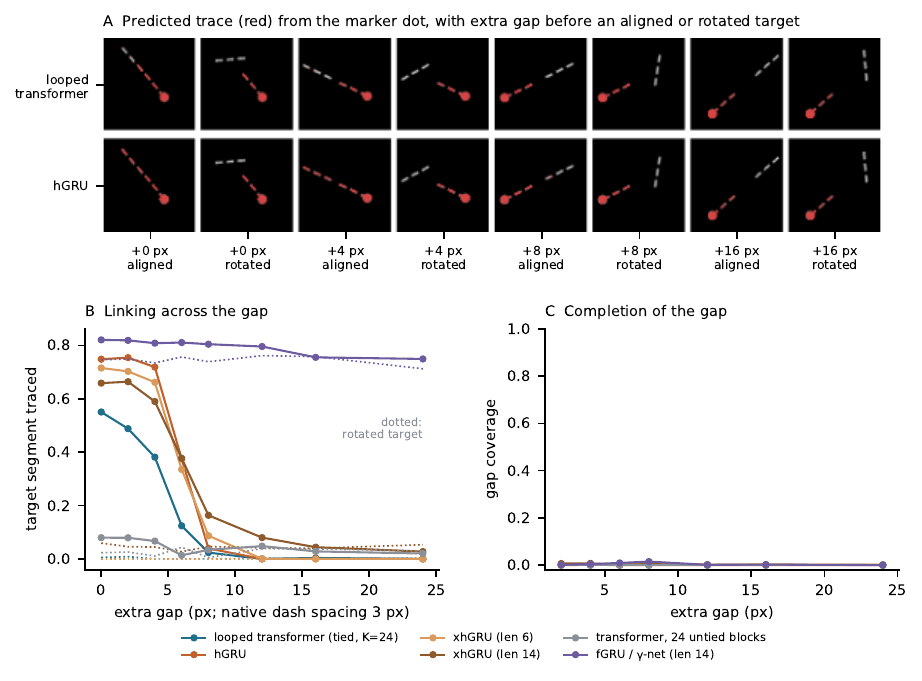
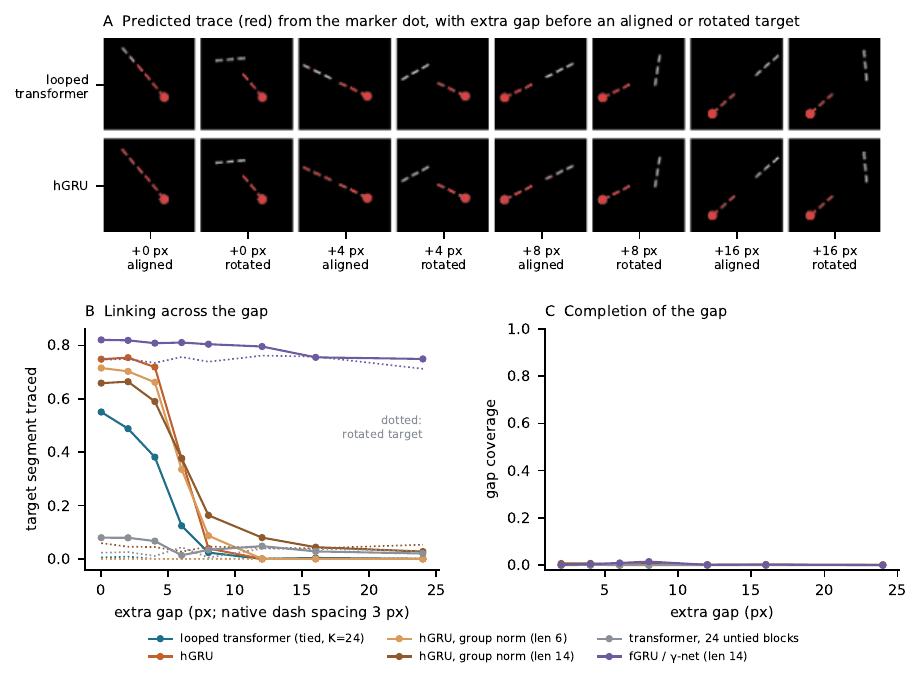
Cued section: drop the inlined comment line; tracing networks: hGRU with group normalization in place of the companion project's xhGRU tag

diff --git a/index.html b/index.html
@@ -71,13 +71,13 @@ footer{font-size:13px;color:var(--muted);margin-top:60px;border-top:1px solid va
 <section id="arrangement"><h2>Fragment arrangement</h2><p>With corners removed, fine-tuned ViT-B and DINOv2 (plain and looped) classify fragmented outlines at 0.84–0.96 in the orientation-control battery, a separate test set with fragments in place, scrambled and in cue conflict, at gaps of <i>0.5</i>–<i>2P</i>. Their closure index across all gap sizes in the main battery is +0.60 to +0.80. Frozen backbones reach half to 70% of that, and fine-tuning raises the index 1.4–2<i>×</i> within each family. Scrambling positions while preserving orientations drops the fine-tuned transformers to 0.27–0.39, so arrangement adds +0.46 to +0.65 beyond orientation statistics.</p></section>
 <section id="where"><h2>Across layers</h2><p>We apply the linear probe at every layer and find that fragment closure in fine-tuned transformers rises through the middle blocks and peaks late (ViT-B +0.68, DINOv2-S +0.79). In looped ViT, it reaches +0.73 by the fourth pass through the shared core and gains at most about 0.02 with further iterations. Additional loops therefore add depth without adding closure. Frozen ViT-B peaks at +0.60, and fine-tuned ResNet50 peaks at +0.52 in its last stage.</p><figure class="narrow"><img src="fig/fig_layers.png" alt="" loading="lazy"><figcaption>Fragment closure index from a linear probe trained on complete outlines at every layer, against relative depth. For the looped ViT, depth counts executed blocks (loops unrolled).</figcaption></figure><figure><img src="fig/example_labels_dinov2.png" alt="" loading="lazy"><img src="fig/example_shap_dinov2.png" alt="" loading="lazy"><figcaption>Fine-tuned DINOv2-S. Top: class-specific relevance maps (Chefer et al., 2021) for the top-1 class per condition (columns) and true class (rows); cell titles give the prediction and its probability. Bottom: Shapley values (Shapley, 1953) of the stimulus's pieces for the true label (red supports, blue opposes). Illustrative only: these maps are weakly faithful (the section “Saliency overlays are often not faithful”); the behavioural evidence for integration is in Fig.&nbsp;3.</figcaption></figure><figure class="anim"><div class="vrow"><div class="vcell"><video autoplay loop muted playsinline preload="metadata" poster="fig/anim/layers_full_vit_b16_sheet.png"><source src="fig/anim/layers_full_vit_b16.mp4" type="video/mp4"></video><div class="vname">ViT-B/16, fine-tuned</div></div><div class="vcell"><video autoplay loop muted playsinline preload="metadata" poster="fig/anim/layers_full_dinov2_s14_sheet.png"><source src="fig/anim/layers_full_dinov2_s14.mp4" type="video/mp4"></video><div class="vname">DINOv2-S, fine-tuned</div></div><div class="vcell"><video autoplay loop muted playsinline preload="metadata" poster="fig/anim/layers_full_resnet50_sheet.png"><source src="fig/anim/layers_full_resnet50.mp4" type="video/mp4"></video><div class="vname">ResNet50, fine-tuned</div></div><div class="vcell"><video autoplay loop muted playsinline preload="metadata" poster="fig/anim/layers_probe_vgg16_sheet.png"><source src="fig/anim/layers_probe_vgg16.mp4" type="video/mp4"></video><div class="vname">VGG16, frozen</div></div></div><figcaption>The contour probe (a logistic regression per layer that labels a cell as holding contour, fitted on complete outlines) played layer by layer, in orange over the stimulus: a Kanizsa square (inducer radius 1.5 patches), its rotated control, the complete outline, the square with corners removed and the same pieces rotated. The probe follows drawn contour from the first block and fills one-patch gaps in the middle blocks; the illusory edges stay empty at every layer.</figcaption></figure></section>
 <section id="recurrence"><h2>Recurrence</h2><p>Looping a fine-tuned transformer changes the fragment closure index by -0.01 to +0.01. Recurrence does not consistently improve this index: in 5 of 6 circuits, the single-iteration control is within 0.02 of, or above, its eight-iteration counterpart (for example, fGRU-H, +0.13 versus +0.18), and the one gain, +0.08 in deep fGRU D4, comes from a single seed. Gap similarity increases over iterations in fGRU-H and fGRU circuits, from 0.28 to 0.35 in fGRU-H, 0.17 to 0.42 in <i>γ</i>-net and 0.35 to 0.37 in eight-layer deep fGRU-H. These increases do not consistently accompany a higher closure index. Across recurrent circuits, the Kanizsa index reaches at most +0.06 (single-iteration controls +0.04), so recurrence adds no illusory-contour signal either.</p><figure><img src="fig/fig_recurrence.png" alt="" loading="lazy"><figcaption>(A) Fragment closure index for the six recurrent circuits that have single-iteration controls (T = 8) and those controls (T = 1). (B) Gap similarity in the gap region of the recurrent state (first recurrent layer, one-patch corner-removed fragments) across the training iterations; for the looped ViT-B/16, across passes through the core.</figcaption></figure><figure class="anim"><div class="vrow"><div class="vcell"><video autoplay loop muted playsinline preload="metadata" poster="fig/anim/layers_looped_vit_b16_sheet.png"><source src="fig/anim/layers_looped_vit_b16.mp4" type="video/mp4"></video><div class="vname">looped ViT-B/16, 24 executed blocks</div></div><div class="vcell"><video autoplay loop muted playsinline preload="metadata" poster="fig/anim/layers_hgru_sheet.png"><source src="fig/anim/layers_hgru.mp4" type="video/mp4"></video><div class="vname">fGRU-H, 8 iterations</div></div><div class="vcell"><video autoplay loop muted playsinline preload="metadata" poster="fig/anim/layers_gammanet_sheet.png"><source src="fig/anim/layers_gammanet.mp4" type="video/mp4"></video><div class="vname">γ-net, 8 iterations</div></div><div class="vcell"><video autoplay loop muted playsinline preload="metadata" poster="fig/anim/layers_dn_fgru_L8_sheet.png"><source src="fig/anim/layers_dn_fgru_L8.mp4" type="video/mp4"></video><div class="vname">DN fGRU L8, 8 iterations</div></div></div><figcaption>The same contour probe over the looped transformer's executed blocks and over the recurrent circuits' iterations (the state the classifier reads). Passes through the core repeat the same map; in the circuits the map is set in the first iteration and sharpens on the drawn contour. The gap between the inducers stays empty.</figcaption></figure></section>
-<section id="tracing"><h2>Contour tracing</h2><p>Our recurrent circuits learned from complete outlines, a task that never demands long-range integration, so we also probed networks trained to segment the dashed contour carrying a marker, a Pathfinder-style curve-tracing task (Jolicoeur et al., 1986; Roelfsema et al., 1998). These networks include an hGRU, two xhGRUs trained on contours of 6 and 14 dashes, an fGRU/<i>γ</i>-net and weight-tied looped local-attention transformers. The companion project calls its models xhGRUs when it replaces the hGRU's per-iteration batch normalization with group normalization (Wu & He, 2018) shared across iterations. We took these networks from that project without retraining; their validation intersection-over-union (IoU) is 0.92–0.996 on 128 px images, and 0.80 for the untied control below. The training target is the full dashed contour, so a network that completes gaps has no reason to label them.</p><figure><img src="fig/fig_tracing.png" alt="" loading="lazy"><figcaption>Contour-tracing networks (trained to segment the dashed contour a marker sits on) probed with a marked dashed segment, an extra gap, and a target segment that continues the path or is rotated in place. (A) Predicted traces. (B) Share of the target traced; solid, aligned; dotted, rotated. (C) Share of the missing contour in the gap predicted as contour.</figcaption></figure></section>
+<section id="tracing"><h2>Contour tracing</h2><p>Our recurrent circuits learned from complete outlines, a task that never demands long-range integration, so we also probed networks trained to segment the dashed contour carrying a marker, a Pathfinder-style curve-tracing task (Jolicoeur et al., 1986; Roelfsema et al., 1998). These networks include an hGRU, two hGRUs with group normalization in place of batch normalization, trained on contours of 6 and 14 dashes, an fGRU/<i>γ</i>-net and weight-tied looped local-attention transformers. We took these networks from that project without retraining; their validation intersection-over-union (IoU) is 0.92–0.996 on 128 px images, and 0.80 for the untied control below. The training target is the full dashed contour, so a network that completes gaps has no reason to label them.</p><figure><img src="fig/fig_tracing.png" alt="" loading="lazy"><figcaption>Contour-tracing networks (trained to segment the dashed contour a marker sits on) probed with a marked dashed segment, an extra gap, and a target segment that continues the path or is rotated in place. (A) Predicted traces. (B) Share of the target traced; solid, aligned; dotted, rotated. (C) Share of the missing contour in the gap predicted as contour.</figcaption></figure></section>
 <section id="gap"><h2>Gap size</h2><p>Accuracy separates the network families when plotted against the number of empty patches (containing no contour pixels, the pixels of the drawn contour) a gap crosses; we did not test whether this count predicts accuracy better than gap size. For 3–6-sided polygons, we average over gaps crossing three or more empty patches, weighting bins of 3, 4, 5 and 6 or more empty patches equally. Fine-tuned transformers score 0.78–0.99, while CNNs and the representative fGRU-H/fGRU circuits score 0.10–0.39.</p><figure class="narrow"><img src="fig/fig_tokens.png" alt="" loading="lazy"><figcaption>Accuracy on fragments (<i>n=3</i>–6, all gap sizes valid) against the largest number of empty patches crossed by any gap. Lines: group means; bands: range across networks.</figcaption></figure><p>We define the critical gap <i>g<sup>*</sup></i> as the gap where the mid-gap closure index falls to half its value at the smallest gap, using linear interpolation in log gap; no network meets the exclusion threshold of an index below 0.05 at the smallest gap. We compute the index on a fixed set of 3- to 6-sided polygons, for which every gap size is valid, and compare <i>g<sup>*</sup></i> with measured ERF<i><sub>50</sub></i> for CNNs and recurrent circuits and with patch size for transformers. Excluding single-iteration controls, CNN and recurrent networks have <i>g<sup>*</sup></i> values of 6 to 50 px, with smaller residual effects possible beyond this point; in 9 of 10 networks, the full critical gap is smaller than ERF<i><sub>50</sub></i>, a radius (median ratio 0.44; 14 of 16 including single-iteration controls). The rank correlation with ERF<i><sub>50</sub></i> is only +0.33, and the exception, excluding single-iteration controls, is fGRU-H with a <i>1×1</i> readout, which adds no spatial convolution after recurrence and has the largest fragment closure index of any recurrent circuit (+0.63). We measure ERF<i><sub>50</sub></i> on noise images and, for deep hierarchies, at the first recurrent layer, so the comparison is descriptive: the gap fits within the region that influences a unit, but this does not show that the network uses that region for the task.</p><figure><img src="fig/gap_schematic.png" alt="" loading="lazy"><figcaption>The same mid-gap fragment at four gap sizes, zoomed on one gap. Top: the 16 px patch grid a ViT-B/16 tokenizes; tinted patches are crossed by the missing contour and contain no contour pixels. Bottom: the measured 50% effective receptive field (ERF<i><sub>50</sub></i>) of four networks, centred on the gap (red: missing contour). Even the 64 px gap lies inside the ERF<i><sub>50</sub></i> of two of the four networks shown.</figcaption></figure><figure><img src="fig/gap_curves.png" alt="" loading="lazy"><img class="narrow" src="fig/gap_vs_reach.png" alt="" loading="lazy"><figcaption>Top: mid-gap closure index (3- to 6-sided polygons) against gap size, by family, for a representative subset of networks (all networks in Table&nbsp;3); dotted verticals mark each network's ERF<i><sub>50</sub></i> (patch size for transformers). Bottom: critical gap <i>g<sup>*</sup></i> (closure index halved) against ERF<i><sub>50</sub></i> or patch size for the same networks; dashed line, equality; triangles, index never halved within the tested range. Over all networks (Table&nbsp;3), 9 of 10 CNN and recurrent networks lie below the diagonal excluding single-iteration controls (the exception is the fGRU-H with a <i>1×1</i> readout) and 14 of 16 including them.</figcaption></figure></section>
 <section id="inside"><h2>Inside the gap</h2><p>A network that completes a contour should represent something where the piece is missing. We tested this with mid-gap fragments of 3- to 6-sided polygons, their rotated controls and matching complete outlines, using up to 48 image triplets per gap size. We sampled spatial features after each transformer block before final normalization, at the four ResNet50 stages and, for recurrent circuits, from the layer the classifier reads at every iteration. We selected cells that the missing contour passes through and that contain no contour pixels in either the stimulus or the control.</p><figure><img src="fig/fig_gapdyn.png" alt="" loading="lazy"><figcaption>Inside the gap. Net gap similarity: how much more the empty feature-map cells on the missing contour resemble the same cells in the complete outline for the stimulus than for its rotated control (cosine similarity of the concatenated cell features), minus the same difference on background cells at least 32 px from any contour pixel. (A) Peak over layers (iterations for recurrent circuits) against gap size. (B) Across relative depth (transformers, solid) or iterations (recurrent circuits, dashed) at a 2-patch gap. (C) Attention from contour tokens to the empty gap tokens relative to empty tokens at the same distance from the drawn contour, blocks 4–8; solid, stimulus; dotted, rotated control. (D) As A, for the illusory edges of Kanizsa figures against rotated inducers.</figcaption></figure><p>By boundary completion (Grossberg & Mingolla, 1985), we mean a process that extends a contour from its ends into an empty gap over successive layers or iterations until the ends meet. Near the drawn contour, overlapping receptive fields and attention to neighbouring tokens make empty gap cells resemble the drawn contour. Farther away, that resemblance declines, though it remains above zero at four patches in transformers. We find no evidence that a process carries one contour end across the empty region to meet the other.</p></section>
 <section id="probe"><h2>Between the inducers</h2><p>The published studies probe representations; the most direct probe is the activity in the empty cells where an illusory edge would be. A real line at 6% contrast raises the contour units by a median +0.44; aligned inducers raise them by +0.02 over rotated ones (at most +0.07; Fig.&nbsp;21B). The illusory edge is therefore worth at most 1.7% of a real line's contrast to the contour probe and at most 3.1% to the contour units (Fig.&nbsp;21C). Sides left empty stay empty however many of the others are drawn (aligned minus rotated, +0.02; Fig.&nbsp;21D), and along a side that fades out the response ends where the contour pixels end: in the empty half it is 0.18 with aligned and 0.18 with rotated inducers (Fig.&nbsp;21E).</p><figure><img src="fig/fig_probe.png" alt="" loading="lazy"><figcaption>The illusory edge against physically drawn versions of the same shape. (A) Displays: the Kanizsa square and its rotated control, a real line of increasing contrast between the same inducers, some sides drawn and the others left empty, a side fading to nothing by its middle, dashes. (B) Contour units (the 5% most contour-selective units of a layer, scaled so that an empty cell is 0 and a drawn contour 1) in the empty cells on the illusory edges, against the contrast of a real line drawn there; contrast 0 is the plain Kanizsa figure (solid) or its rotated control (dotted). Bold: median of each family; networks whose read-out does not rise with line contrast are omitted. (C) Equivalent contrast of the illusory edge per network: bars, contour probe; dots, contour units. (D) Contour units on the sides left empty, against how many sides are missing (the others drawn). (E) Contour units along a side drawn at full contrast at one end and fading to nothing by its middle; grey, no contour pixels.</figcaption></figure></section>
 <section id="mae"><h2>Masked autoencoders</h2><p>Li et al. (2026) report that a masked autoencoder (MAE) continued on natural images reconstructs boundary-like edges between Kanizsa inducers when the gap is masked (boundary F1 0.52, edge strength 0.15), and much weaker ones after continued training on texforms; they compare the two models but test no display without an illusory figure. We rebuilt their protocol from the paper (their code is not released): virtual squares with straight, concave or convex sides, inducer radius 24–42 px and a 48 px gap, their patch mask, their Canny settings, evaluation region, boundary F1 and edge strength (stimulus details the paper leaves open are listed in the code), and applied it to our four MAEs. On the Kanizsa displays it gives boundary F1 0.47–0.55 and edge strength 0.13–0.17, close to their values; with the inducers rotated in place it gives 0.14–0.19 and 0.02–0.04, with full discs 0.08–0.13 and 0.00–0.01, and with no inducers 0 (Fig.&nbsp;6). Their result therefore holds against these controls: the reconstruction fills the hidden region just outside each side with grey and the region inside with white, and the edge between them lies on the virtual square.</p><figure><img src="fig/fig_mae_li.png" alt="" loading="lazy"><figcaption>Reconstruction of masked Kanizsa displays by a masked autoencoder, scored with the protocol of Li et al. (2026). (A) Inputs (inducer radius 30 px, straight sides) and the official MAE ViT-B/16's reconstructions; red outlines, the masked patches. Their mask hides every patch near the middle of each side, inducer patches included; the gap-only mask hides the same patches minus every patch with an inducer pixel. Rotated inducers, full discs and a drawn outline get the same mask as the Kanizsa display. (B) Boundary F1 of Canny edges against the virtual square's sides, (C) edge strength across them, in their evaluation region (their mask) or the middle of each gap (gap-only mask); bars, mean of the four MAEs; dots, each MAE; 20 configurations, both polarities.</figcaption></figure><p>Their mask, however, extends into the inducers: 29 of its 73 patches contain inducer pixels, including the notches' own straight edges. With the same patches minus those holding inducer pixels (44 patches), so that only the gap is hidden and the notch edges stay visible, the reconstructions contain no edge in the gap (F1 0.01–0.05, edge strength 0.003), while a line drawn along the sides is continued across the same hidden patches (F1 0.96–0.99, edge strength 0.29–0.30). The edge is not confined to the hidden inducer parts: under their mask, F1 in the middle of the gap alone is 0.49–0.56. The MAEs thus produce the illusory edge when they must reconstruct the inducers' notches together with the gap, and not when the notch edges are visible and only the space between them is missing, the case in which a drawn line is continued. Fine-tuned for classification, the same four MAEs behave like the supervised ViT-B/16: closure index 0.58–0.67 for corner-removed fragments (ViT-B/16, 0.60–0.65) and 0.01–0.04 for Kanizsa figures (ViT-B/16, 0.08–0.14).</p></section>
 <section id="patch"><h2>Activation patching</h2><p>The probes ask whether the empty cells represent an edge; activation patching (Meng et al., 2022; Heimersheim & Nanda, 2024) asks whether the evidence the classifier uses passes through them. For each Kanizsa display of the battery and its rotated-inducer control, which differ only in the inducer pixels, we ran the fine-tuned network on one display, replaced one set of tokens with the other display's at one block, or at that block and every later one, and measured the change in the log-odds of the true class. A Kanizsa effect large enough to localise (at least 0.5 in log-odds) appears only with inducers of radius 1.5 patches or more, and there in 5 of the 12 transformers: the three ViT-B/16 seeds, one of three DINOv2-S seeds and the looped ViT-B/16 (accuracy 0.53–0.78 on these Kanizsa figures, 0.18–0.45 with rotated inducers); the others, all four MAE networks among them, reach at most 0.33.</p><figure class="narrow"><img src="fig/fig_gap_patch.png" alt="" loading="lazy"><figcaption>Activation patching in the transformers with a Kanizsa effect (log-odds of the true class at least 0.5 higher than with rotated inducers; inducer radius at least 1.5 patches). Share of that difference removed when one set of tokens at one block is replaced by the rotated-inducer display's (gap, inducer, interior and background tokens; class token), against the block's depth; one line per network.</figcaption></figure><p>In these five networks, giving the gap tokens the rotated display's content at every block removes at most 0.05 of the effect, no more than the background tokens (at most 0.01), and the interior tokens remove 0.05–0.15; the inducer tokens carry all of it (1.00) until the last blocks, where it passes to the class token (Fig.&nbsp;7). When the same gaps are closed by drawn lines (inducer radius up to 1 patch), the gap tokens carry 0.38–0.88 of the effect in all twelve networks, so the test finds evidence in the gaps where there is some. Where a Kanizsa effect exists the gaps are short, about six gap tokens per display against about eighty inducer tokens; within that limit, the transformers read their preference for aligned inducers from the inducers themselves, not from the space between them.</p></section>
-<section id="cued"><h2>Cued segmentation circuits</h2><p>% journey/anim_cued.tex — the cued circuits' step-by-step figure is Fig.&nbsp;13 (fig_cued_steps.pdf), already in this subsection. In incremental grouping, a label spreads from a cued point across the object it belongs to and stops at the object's boundary (Roelfsema, 2006). Mollard et al. (2026) trained a recurrent <i>γ</i>-net (Linsley et al., 2020) to segment the object at a cued location in natural images and found that the time its grouping signal takes to reach a point predicts human reaction times. We report <em>fill</em>, the share of the hexagon's white pixels labelled as the cued object, beyond one patch from the cue, at the network's read-out step. The looped transformer fills 0.85 of the hexagon with aligned inducers and 7 px gaps, as much as when the gaps are closed by a line (0.86), against 0.01 with rotated inducers, 0.00 with full discs and 0.02 with corner segments, and the label stays inside: just outside the gaps 0.08 is labelled, against 0.36 on a blank page, where the label spreads (0.63 of the hexagon's area; Fig.&nbsp;12B, Fig.&nbsp;13). This specificity holds only for small gaps. At 18 px a closing line is still filled (0.74) but the illusory gap is not (0.04), and at 29 px even the closing line is not (0.03).</p><figure><img src="fig/fig_cued_gap.png" alt="" loading="lazy"><figcaption>Cued segmentation circuits (after Mollard et al., 2026) on a large hexagon (circumradius 4.5 patches) at eight gap sizes, cue at the centre. (A) One gap enlarged on the 4 px grid of the circuits' finest recurrent level, with the 20 px reach of the paper's <i>5×5</i> horizontal kernel (red) and the gap (orange). (B) The looped transformer's label (yellow) at its read-out step for the Kanizsa display, the same inducers with the gaps closed by a solid or dashed line, and full discs at the same positions; header colours, the three gap ranges of (C). (C) Share of the hexagon's interior labelled against gap size (mean over four orientations) for eight circuits: Kanizsa, gaps closed by a solid line, full discs and rotated inducers. Shaded ranges follow the looped transformer: illusory gaps filled like closed ones; closed gaps filled and illusory gaps not; neither.</figcaption></figure><p>Four controls locate what sets this limit. With one run per setting, these differences cannot be attributed to the settings.</p><p>The looped transformer's selectivity is not reproducible either: a second run, identical apart from the random seed, labels the Kanizsa hexagon at 7 px gaps (0.96) but also the hexagon between rotated inducers (0.98) and full discs (0.98), and still 0.78 of the Kanizsa hexagon at 29 px; like the fGRU on ViTDet features, it labels the region the inducers surround (Table&nbsp;1). We counted a polygon as seen when at least half of its interior and at most a tenth of a band just outside its sides are labelled, over <i>n=3</i>–8 sides, four sizes, support ratios 0.50–0.90 and both polarities. These circuits see nearly every drawn outline (looped transformer 99%, hGRU 98%) and most Kanizsa figures (87% and 70%), but also many figures whose inducers are all rotated by 15–180° (27–57% and 9–37%; full discs 10% and 8%, blank page 0%); after one step they see rotated inducers more often (41–65% and 49–77%). What bridges these gaps is the feedforward features; recurrence reduces, without removing, the label in regions that specify no shape.</p></section>
+<section id="cued"><h2>Cued segmentation circuits</h2><p>In incremental grouping, a label spreads from a cued point across the object it belongs to and stops at the object's boundary (Roelfsema, 2006). Mollard et al. (2026) trained a recurrent <i>γ</i>-net (Linsley et al., 2020) to segment the object at a cued location in natural images and found that the time its grouping signal takes to reach a point predicts human reaction times. No code or weights have been released, so we reimplemented and trained it from the paper's Methods: frozen Panoptic FPN ResNet-101 features (Kirillov et al., 2019), four recurrent levels of hGRU units with top-down connections, a <i>5×5</i> horizontal kernel at the finest level, 40 timesteps, and contractor recurrent back-propagation (C-RBP; Linsley et al., 2020) on COCO (Lin et al., 2014) (the section “Cued-object segmentation circuits”). The looped transformer fills 0.85 of the hexagon with aligned inducers and 7 px gaps, as much as when the gaps are closed by a line (0.86), against 0.01 with rotated inducers, 0.00 with full discs and 0.02 with corner segments, and the label stays inside: just outside the gaps 0.08 is labelled, against 0.36 on a blank page, where the label spreads (0.63 of the hexagon's area; Fig.&nbsp;12B, Fig.&nbsp;13). This specificity holds only for small gaps. At 18 px a closing line is still filled (0.74) but the illusory gap is not (0.04), and at 29 px even the closing line is not (0.03). The circuits thus show three ranges (Fig.&nbsp;12C): up to about 11 px, illusory gaps are filled like closed ones; from 14 to 22 px, closed gaps are filled and illusory ones are not; from 29 px, neither.</p><figure><img src="fig/fig_cued_gap.png" alt="" loading="lazy"><figcaption>Cued segmentation circuits (after Mollard et al., 2026) on a large hexagon (circumradius 4.5 patches) at eight gap sizes, cue at the centre. (A) One gap enlarged on the 4 px grid of the circuits' finest recurrent level, with the 20 px reach of the paper's <i>5×5</i> horizontal kernel (red) and the gap (orange). (B) The looped transformer's label (yellow) at its read-out step for the Kanizsa display, the same inducers with the gaps closed by a solid or dashed line, and full discs at the same positions; header colours, the three gap ranges of (C). (C) Share of the hexagon's interior labelled against gap size (mean over four orientations) for eight circuits: Kanizsa, gaps closed by a solid line, full discs and rotated inducers. Shaded ranges follow the looped transformer: illusory gaps filled like closed ones; closed gaps filled and illusory gaps not; neither.</figcaption></figure><p><em>Recurrence is not needed.</em> The single-step controls fill the Kanizsa hexagon as much as the looped transformer (looped transformer 0.79, hGRU 0.98 at 7 px) and stop at the same gaps (18 px: 0.22 and 0.29, against 0.56 and 0.94 with closing lines). What they lack is selectivity: they also label the hexagon between full discs (0.48 and 0.64), the hGRU between rotated inducers (0.31), and the looped transformer the whole blank page (1.00). Over 40 steps the looped transformer removes the fill between full discs (0.00) and reduces the spread on a blank page to 0.63 while keeping the aligned fill; in the fGRU trained with the weighted loss, by contrast, a label that fills the Kanizsa hexagon at step 40 (0.68; discs 0.19) floods the image by step 60 (Fig.&nbsp;13). The looped transformer's selectivity is not reproducible either: a second run, identical apart from the random seed, labels the Kanizsa hexagon at 7 px gaps (0.96) but also the hexagon between rotated inducers (0.98) and full discs (0.98), and still 0.78 of the Kanizsa hexagon at 29 px; like the fGRU on ViTDet features, it labels the region the inducers surround (Table&nbsp;1).</p><p>Trained on COCO alone, most of these circuits do not segment a thin drawn outline, so we also trained the looped transformer and the <i>15×15</i> hGRU, each with 40 steps and with one, on batches half of which were drawn polygons (filled, outlined, or outlined with inducers at the vertices, aligned or rotated; never a Kanizsa figure without its outline). These circuits see nearly every drawn outline (looped transformer 99%, hGRU 98%) and most Kanizsa figures (87% and 70%), but also many figures whose inducers are all rotated by 15–180° (27–57% and 9–37%; full discs 10% and 8%, blank page 0%); after one step they see rotated inducers more often (41–65% and 49–77%). Recurrence reduces this response to arrangements that specify no polygon without removing it. At the proportions of standard Kanizsa figures, these circuits treat the illusory surface as empty space.</p></section>
 <section id="feedback"><h2>Feedback inside pretrained transformers</h2><p>Table&nbsp;7 gives every selected network. Trained on plain unity clips, V-JEPA&nbsp;2&nbsp;L labels the Kanizsa square (0.40–0.77 across three seeds) and nothing between rotated inducers, but also the closed discs (0.44–0.70), and the no-loop control, the same network trained without feedback, matches or exceeds it on every display (Kanizsa 0.77 and 0.73, closed 0.54 and 0.42): training with recurrence was not needed for any test in the battery. V-JEPA&nbsp;2.1&nbsp;L and&nbsp;B fit the clips better and faster and transfer worse: after 4,000 iterations the 2.1&nbsp;L network labels neither the line square (0.40) nor the Kanizsa one (0.00), and its checkpoints lose the transfer as the clip loss falls.</p><figure class="anim"><div class="vrow"><div class="vcell"><video autoplay loop muted playsinline preload="metadata" poster="fig/anim/p1_sam3_ol_s0_sel_sheet.png"><source src="fig/anim/p1_sam3_ol_s0_sel.mp4" type="video/mp4"></video><div class="vname">SAM 3, seed 0</div></div><div class="vcell"><video autoplay loop muted playsinline preload="metadata" poster="fig/anim/p1_sam3_ol_s1_sel_sheet.png"><source src="fig/anim/p1_sam3_ol_s1_sel.mp4" type="video/mp4"></video><div class="vname">SAM 3, seed 1</div></div><div class="vcell"><video autoplay loop muted playsinline preload="metadata" poster="fig/anim/p1_sam3_olfd_s1_sel_sheet.png"><source src="fig/anim/p1_sam3_olfd_s1_sel.mp4" type="video/mp4"></video><div class="vname">SAM 3, faded covers, seed 1</div></div><div class="vcell"><video autoplay loop muted playsinline preload="metadata" poster="fig/anim/p1_j21l_ol_s0_sel_sheet.png"><source src="fig/anim/p1_j21l_ol_s0_sel.mp4" type="video/mp4"></video><div class="vname">V-JEPA 2.1 L, seed 0</div></div><div class="vcell"><video autoplay loop muted playsinline preload="metadata" poster="fig/anim/p1_j21l_ol_s1_sel_sheet.png"><source src="fig/anim/p1_j21l_ol_s1_sel.mp4" type="video/mp4"></video><div class="vname">V-JEPA 2.1 L, seed 1</div></div><div class="vcell"><video autoplay loop muted playsinline preload="metadata" poster="fig/anim/p1_j21l_olnl_s1_sel_sheet.png"><source src="fig/anim/p1_j21l_olnl_s1_sel.mp4" type="video/mp4"></video><div class="vname">2.1 L, no layer labels</div></div><div class="vcell"><video autoplay loop muted playsinline preload="metadata" poster="fig/anim/p1_j20_ol_s0_sel_sheet.png"><source src="fig/anim/p1_j20_ol_s0_sel.mp4" type="video/mp4"></video><div class="vname">V-JEPA 2 L, seed 0</div></div><div class="vcell"><video autoplay loop muted playsinline preload="metadata" poster="fig/anim/lvu224_ol_s0_sel_sheet.png"><source src="fig/anim/lvu224_ol_s0_sel.mp4" type="video/mp4"></video><div class="vname">LeVJEPA L, whole encoder</div></div><div class="vcell"><video autoplay loop muted playsinline preload="metadata" poster="fig/anim/p1_s3j21_ol_s0_sel_sheet.png"><source src="fig/anim/p1_s3j21_ol_s0_sel.mp4" type="video/mp4"></video><div class="vname">SAM 3 front + 2.1 back</div></div></div><figcaption>Each loop plays the network's label (orange: probability that a pixel belongs to the cued object) over recurrent steps 1 to 80 on the Kanizsa square (support ratio 0.7), the inducers turned by 180°, the gaps drawn as lines, and the inducers closed into discs; the cue is the blue dot at the centre. In the SAM 3 networks the first pass labels the square and the controls alike, and the loop removes the label from the controls; in the no-layer-label control the loop builds a label on everything.</figcaption></figure><p>With the outline clips, both SAM&nbsp;3 seeds pass every transfer criterion (line 1.00 and 1.00, Kanizsa 0.62 and 0.55, rotated 0.00 and 0.00, closed 0.08 and 0.22, Kanizsa minus closed 0.53 and 0.33; nothing between turned corners), the only network of the family, and of the paper, to do so on two of two seeds. The two training seeds agree in their stage-1 fit (validation IoU 0.70 and 0.72 at iteration 3,000; 2.1&nbsp;L 0.41). Faded covers do not improve it: seed 0 is unchanged (0.54) and seed 1 loses the fill (0.07), so that SAM&nbsp;3 passes on three of its four stage-2 runs; faded covers changed nothing on 2.1&nbsp;L either (0.30 and 0.33). Figure&nbsp;Fig.&nbsp;15 and the contact sheet of Fig.&nbsp;14 show what the recurrence does.</p><figure><img src="fig/fig_fb_steps.png" alt="" loading="lazy"><figcaption>Interior fill against recurrent step (log axis) for the single displays of the battery, mean over support ratios and orientations, for nine networks: the two SAM&nbsp;3 seeds and SAM&nbsp;3 trained with faded covers (top), V-JEPA&nbsp;2.1&nbsp;L and its no-layer-label control (middle), V-JEPA&nbsp;2&nbsp;L, the LeVJEPA whole encoder and the SAM&nbsp;3-front hybrid (bottom).</figcaption></figure><p>Cutting the feedback from the first step therefore gives a <em>higher</em> Kanizsa fill (0.65 and 0.93), with the controls filled as well. V-JEPA&nbsp;2.1&nbsp;L shows the same shape at a third of the amplitude (step-1 Kanizsa 0.26 and 0.14, rotated 0.12 and 0.12, both gone by step 8), and V-JEPA&nbsp;2&nbsp;L on plain clips prunes a step-1 label that covers Kanizsa and closed displays alike. Across the four SAM&nbsp;3 runs the step-1 proposal is consistent (0.63–0.92) and what varies is how much of it survives the veto (0.62, 0.55, 0.54 and 0.07 at step 80); in the run that fails, the loop removes the Kanizsa label together with the controls. The recurrence thus performs the figure/non-figure decision; it does not create the fill, and it is not needed for it.</p><figure><img src="fig/fig_fb_depth.png" alt="" loading="lazy"><figcaption>Top: separation (P inside minus outside under one linear read-out per token, fitted on clip frames) after every second block of the four untouched encoders, for the line square, the Kanizsa square, the rotated inducers and the closed discs, against relative depth; dotted, the block at which the looped networks are cut. Bottom: attention mass of the token at the square's centre on the ink (solid) and inside the square (dashed), head mean, per block of the untouched 2.1&nbsp;L and SAM&nbsp;3 encoders and per looped block of the trained networks at step 8.</figcaption></figure><p>Finally, the networks put some of their label on the inducers themselves (Fig.&nbsp;16): 11–14% of the inducer bodies in the Kanizsa display and 17–20% in the rotated display, where nothing is filled between them, so on that display the label marks the inducers as objects; 2.1&nbsp;L does the same on the rotated display (22%), and the LeVJEPA whole encoder and the plain-clip V-JEPA&nbsp;2 networks stay under 5% everywhere. Across five encoders, four clip sets, three controls, two hybrids and two to three seeds per cell, the one network that labels a Kanizsa figure selectively is the one whose encoder was trained with object masks, and in it the recurrence acts after the fact, as a veto on configurations that do not form a figure. Its fill is a high-support-ratio, near-saturating fill with a sharp threshold, it needs an auxiliary layer-label loss to appear, it does not transplant by halves to a self-supervised encoder, and it treats the inducers as partly object. That is a characterization of what mask supervision puts into an encoder, not evidence of completion by recurrence, and it leaves the conclusion of the other families unchanged.</p><figure class="narrow"><img src="fig/fig_fb_pacmen.png" alt="" loading="lazy"><figcaption>Fill on the inducers' own bodies (the inducer pixels more than 6 px from the figure's sides) at step 80, per network and display; dotted line, 0.10.</figcaption></figure></section>
 <section id="audit"><h2>Auditing published measures</h2><p>We recreated each measure's stimuli from its published specification and tested trained networks alongside null observers that cannot close contours: untrained networks, a Gabor energy bank, raw pixels and a <em>pixel-growth</em> observer. We used three seeds for untrained networks in the closure-measure audit and one for the extended configural-effect controls; the brightness audit uses no networks. Our <em>pixel-growth</em> observer represents the radial distribution of contour pixels around their centroid as a 20-bin histogram over distances of 0–120 px, normalized to sum to one: it discards angular information, but shape and arrangement can still change the radial distribution, and it differs from the pixel-by-pixel overlap controlled by Kim et al. (2021). The <em>pixel</em> observer is the image itself, average-pooled to <i>75×75</i>. The <em>Gabor</em> observer uses a fixed bank of quadrature-pair filters with wavelengths of 4, 8 and 12 px and eight orientations, with energy average-pooled to a <i>14×14</i> grid; it represents oriented edge energy without grouping.</p><figure><img src="fig/fig_ce_stimuli.png" alt="" loading="lazy"><figcaption>The configural-effect stimuli. (A) The protocol with line segments (edge length 29 px): the base pair differs in the orientation of one corner (flipped about the centroid of its own pixels); the composite pair adds the same two corners, the context, to both. The closing context completes the square; the in-place context rotates each added corner by 90<i>^</i> about the centroid of its own pixels; the outward context rotates it by 180<i>^</i> about its vertex. (B) The eight inducers of the shape audit, each specifying the same corner of the same square with the closing context (29 px notch); the first five have identical notch edges. (C) The size audit: notched discs enlarged at a fixed 19 px notch, so the notch edges and the implied square are unchanged.</figcaption></figure><figure><img src="fig/fig_audit.png" alt="" loading="lazy"><figcaption>Published measures recomputed on null observers. (A) The figure–ground luminance difference of Pang et al. (2021) computed on input images smoothed by diffusion; shaded band, magnitude reported for the All-in condition. (B) The closure measure <i>C̄</i> of Kim et al. (2021) and Zhang et al. (2025) for nine ImageNet CNNs, for the same CNNs with a disordered control that keeps contour pixels in place, for an observer that only encodes the radial distribution of contour pixels, and for untrained networks. (C) The configural effect (CE) of Zhang et al. (2025) with a closing context and with the same components rotated so that no closed shape can form, against pixel, Gabor and untrained observers.</figcaption></figure><figure><img src="fig/fig_audit2.png" alt="" loading="lazy"><figcaption>(A) Configural effect for the ten trained networks (nine CNNs and ViT-B/16) with closing, in-place (component-centroid-matched, non-closing) and outward contexts against edge length (solid, line segments; dashed, Kanizsa squares); 47.5 px is a closed square. (B) CE per network across inducer shapes; shaded, notched inducers with identical notch edges (same specified-to-total edge ratio). (C) CE against inducer radius at a fixed notch.</figcaption></figure></section>
 <section id="faith"><h2>Saliency maps</h2><p>Saliency overlays often serve as evidence that a network “sees” a triangle. We tested each map by deleting contour pixels in map order or random order (Petsiuk et al., 2018), calling the resulting score faithfulness in the sense used by Selvaraju et al. (2017). Grad-CAM (Selvaraju et al., 2017) and class-specific relevance maps (Chefer et al., 2021) have a median faithfulness of +0.020 and score near zero (<i>|·|&lt;0.02</i>) for 7 of 16 networks. Occlusion (Zeiler & Fergus, 2014) and Shapley values computed over the stimulus's own pieces score +0.051 and +0.043; we ran occlusion on a subset of 40 images per network. This provides separate evidence from the sanity checks of Adebayo et al. (2018), which Grad-CAM passed and which test a different property.</p><figure class="narrow"><img src="fig/fig_faith.png" alt="" loading="lazy"><figcaption>Deletion faithfulness of three attribution methods across networks (one point per network; bar, median).</figcaption></figure></section>

diff --git a/build_site.py b/build_site.py
@@ -114,6 +114,8 @@ def sentences(label_or_title, n):
     body = m.group(1)
     body = re.sub(r"\\begin\{(figure|table)\}.*?\\end\{\1\}", "", body, flags=re.S)
     body = re.sub(r"\\label\{[^}]*\}", "", body)
+    body = re.sub(r"(?m)^\s*%.*$", "", body)   # comment lines (the journey files start with one)
+    body = re.sub(r"(?m)^\\input\{[^}]*\}\s*$", "", body)
     sents = [x.strip() for x in body.strip().split("\n") if x.strip()]
     pick = sents[:n] if isinstance(n, int) else [sents[i] for i in n]
     return " ".join(tex2html(x) for x in pick)
